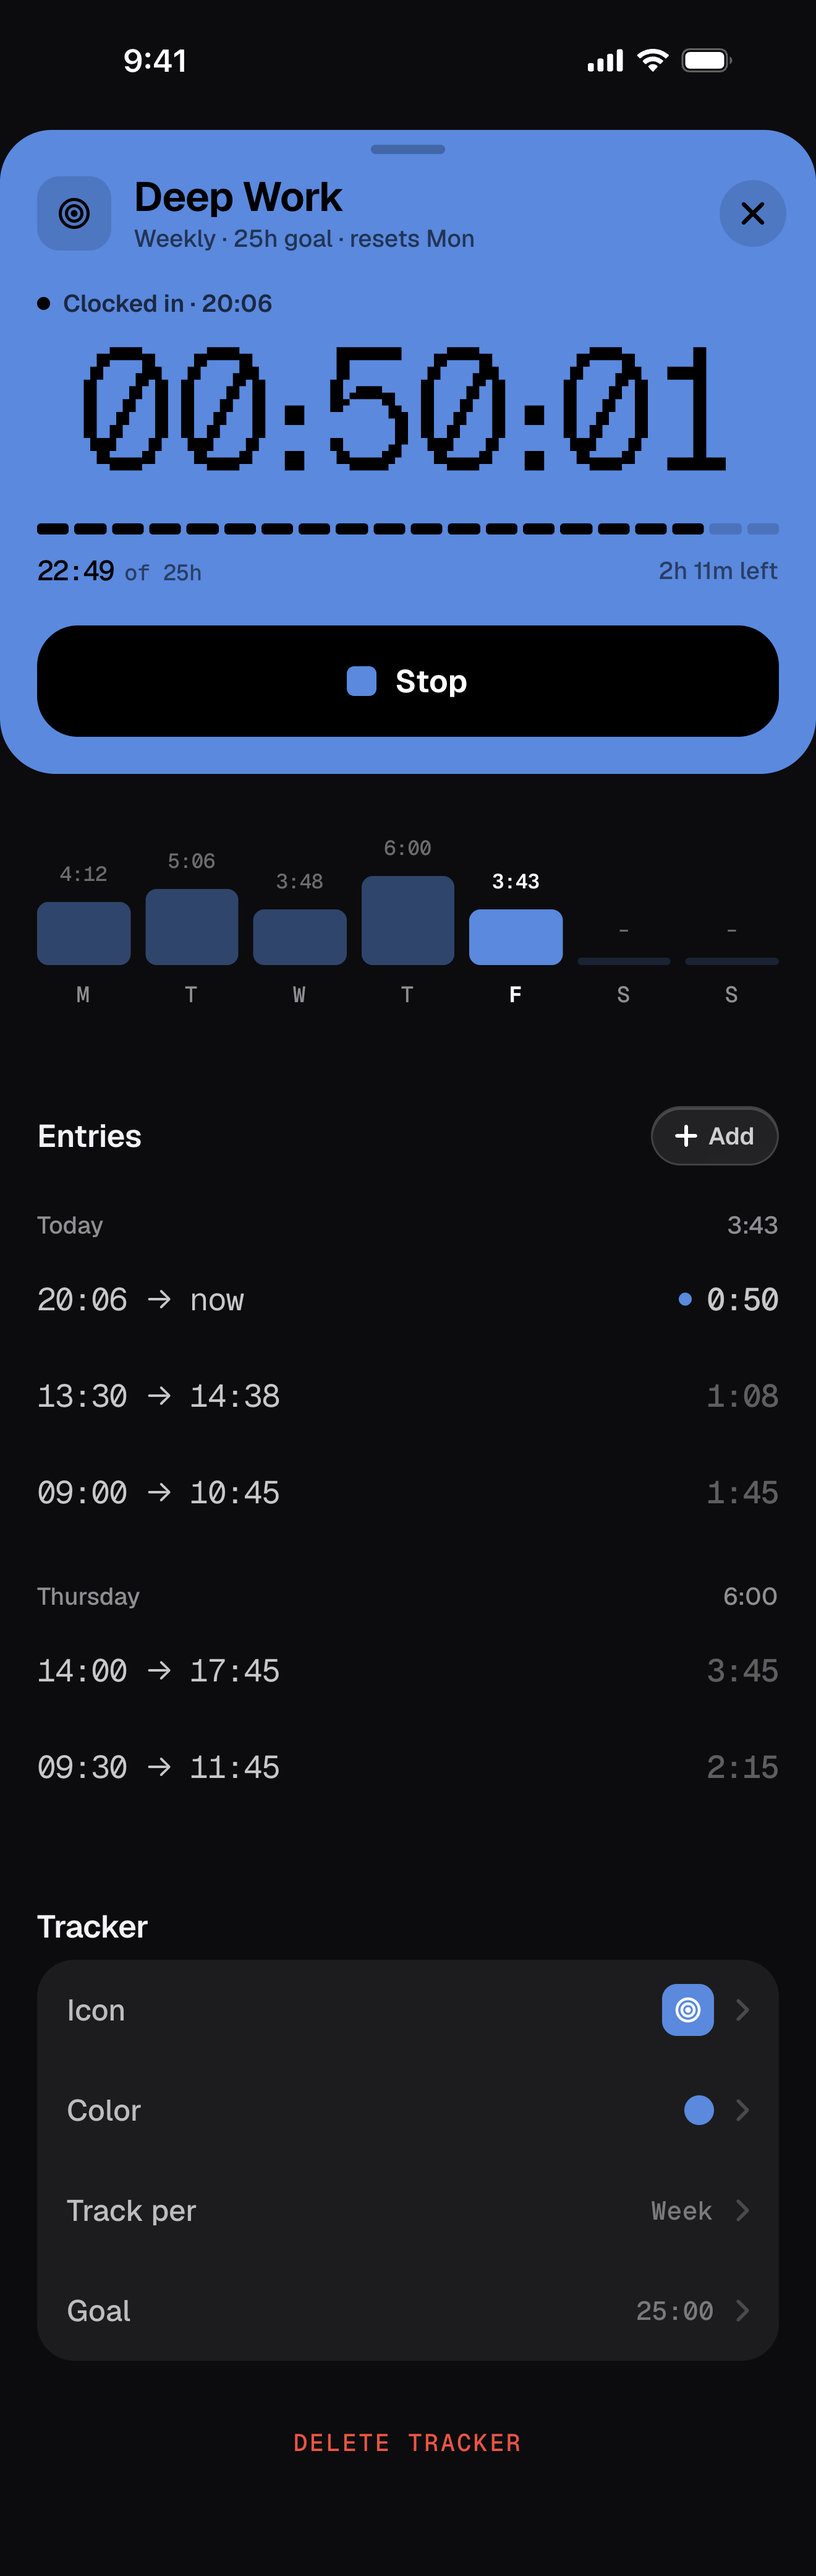
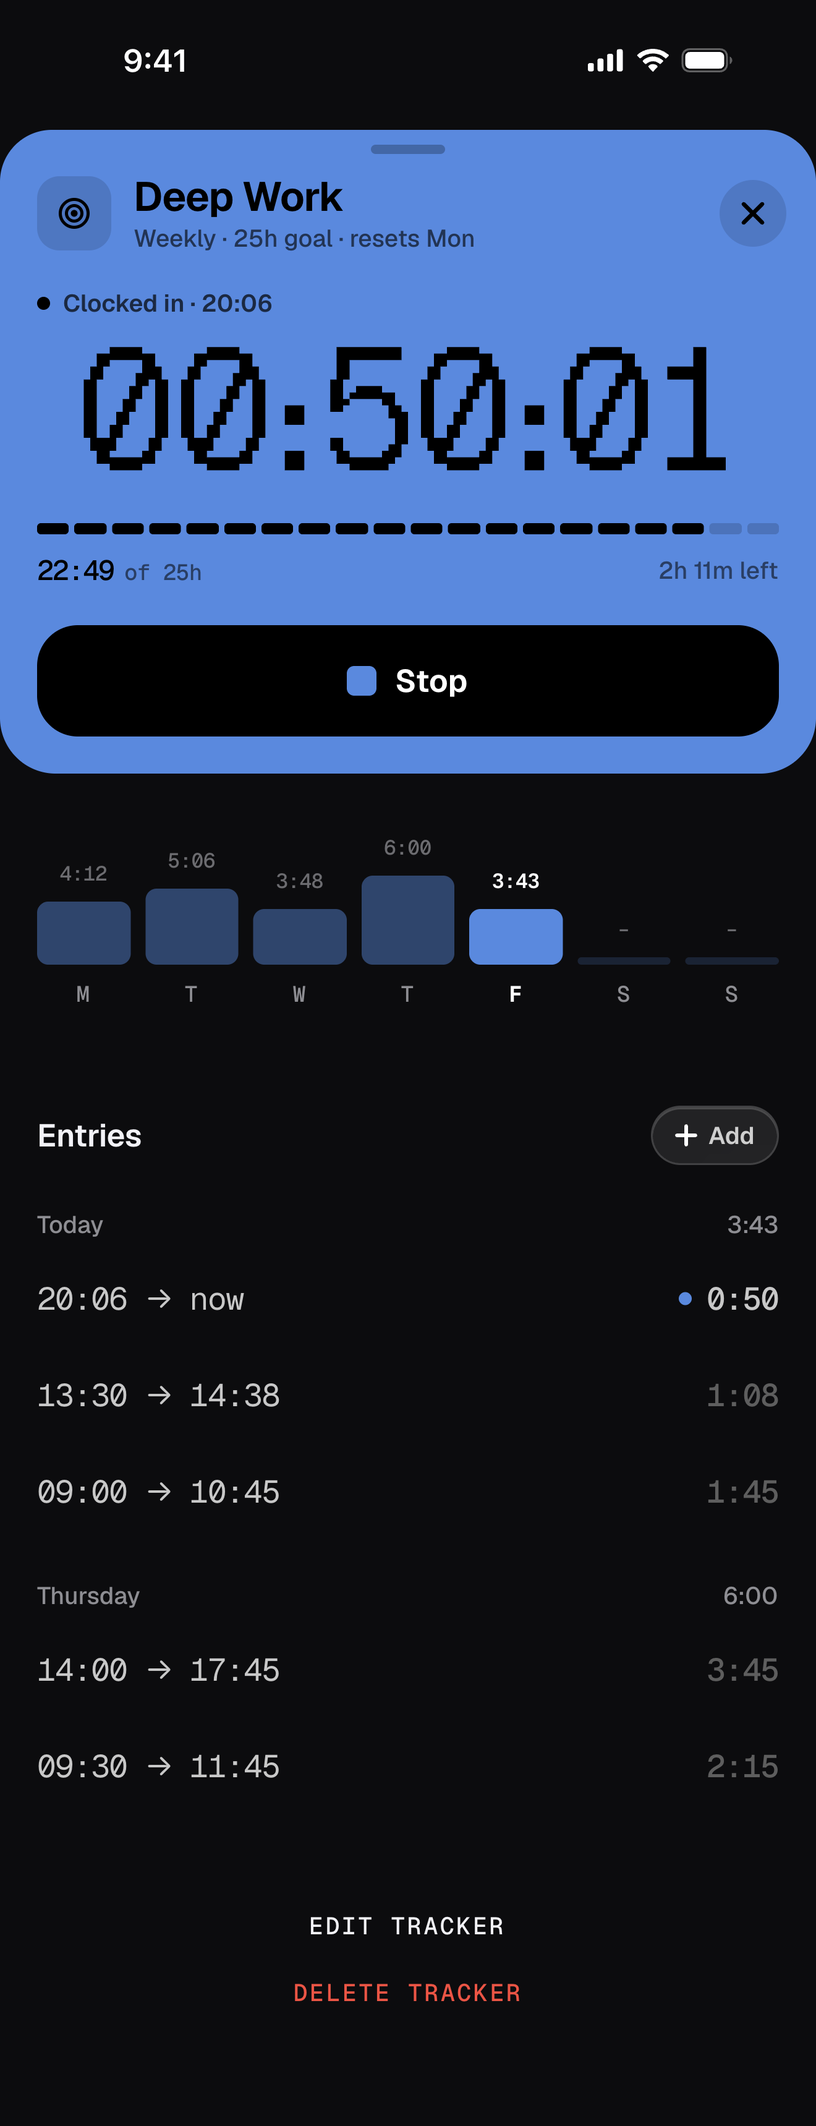
Detail: EDIT TRACKER replaces the Tracker settings list
The detail sheet drops the "Tracker" section (Icon / Color / Track per /
Goal rows). An EDIT TRACKER text button (Geist Mono 13 caps, 0.08em,
#F2F2F7) now sits above DELETE TRACKER, 20pt apart, both with the
shared press style. It opens the 05 sheet in edit mode exactly like the
home "+" (edge-to-edge 706pt surface over a scrim, now inside the
detail via newTrackerOverlay(isPresented:editing:)), with a light
haptic; saving goes through Store.updateActivity, which refreshes
detail, home, widgets and the Live Activity. Tapping the name in the
header no longer opens the editor.

Paper FINAL 02 (AGW-0) updated to match and re-exported to
design/refs/02-tracker-detail@3x.png (fit-content height).

Model: Opus 5.5

diff --git a/Pocus/Screens/TrackerDetailView.swift b/Pocus/Screens/TrackerDetailView.swift
@@ -2,8 +2,8 @@ import SwiftUI
 
 /// 02 Tracker detail sheet (Paper AGW-0). Presented by RootView via `router.detailActivityID`.
 /// Full-accent header (grabber, icon/name, close X, Pixel timer, progress strip, big Stop/Start pill),
-/// then this week's day bars, the entries list (tap to fix times, + Add to log time), the tracker
-/// settings list (opens the editor) and DELETE TRACKER.
+/// then this week's day bars, the entries list (tap to fix times, + Add to log time), then EDIT TRACKER
+/// (opens the 05 sheet in edit mode) over DELETE TRACKER.
 struct TrackerDetailView: View {
     @Environment(Store.self) private var store
     @Environment(AppRouter.self) private var router
@@ -22,7 +22,9 @@ struct TrackerDetailView: View {
                 Ticker { now in content(a, now: now) }
                     .sheet(item: $editingSession) { s in EntryEditSheet(session: s, activity: a) }
                     .sheet(isPresented: $addingEntry) { AddEntrySheet(activity: a) }
-                    .sheet(isPresented: $editingTracker) { NewTrackerView(editing: a) }
+                    // Same edge-to-edge 05 sheet as the home "+", over the detail.
+                    .newTrackerOverlay(isPresented: $editingTracker, editing: a)
+                    .sensoryFeedback(.impact(weight: .light), trigger: editingTracker) { _, open in open }
                     .confirmationDialog("Delete \(a.name)?", isPresented: $confirmingDelete, titleVisibility: .visible) {
                         Button("Delete Tracker", role: .destructive) { delete(a) }
                     } message: {
@@ -42,26 +44,20 @@ struct TrackerDetailView: View {
     private func content(_ a: Activity, now: Date) -> some View {
         ScrollView {
             VStack(spacing: 0) {
-                DetailHeader(activity: a, now: now, close: { dismiss() }, toggle: { toggle(a) },
-                             editName: { editingTracker = true })
+                DetailHeader(activity: a, now: now, close: { dismiss() }, toggle: { toggle(a) })
                 weekBars(a, now: now)
                     .padding(.horizontal, 20)
                     .padding(.top, 32)
                 entries(a, now: now)
                     .padding(.horizontal, 20)
                     .padding(.top, 52)
-                settings(a)
-                    .padding(.horizontal, 20)
-                    .padding(.top, 52)
-                Button { confirmingDelete = true } label: {
-                    Text("DELETE TRACKER")
-                        .geistMono(13, .medium, tracking: 0.08, lineHeight: 16)
-                        .foregroundStyle(Color(hex: "#FF453A"))
-                        .padding(.vertical, 8).padding(.horizontal, 16)
-                        .contentShape(Rectangle())
+                // Paper: 52 below the entries, 20 between the two labels, 64 to the bottom
+                // (each label carries 8pt of tap padding above and below).
+                VStack(spacing: 4) {
+                    textButton("EDIT TRACKER", color: Color(hex: "#F2F2F7")) { editingTracker = true }
+                    textButton("DELETE TRACKER", color: Color(hex: "#FF453A")) { confirmingDelete = true }
                 }
-                .buttonStyle(.pressScale)
-                .padding(.top, 28)
+                .padding(.top, 44)
                 .padding(.bottom, 56)
             }
         }
@@ -72,6 +68,18 @@ struct TrackerDetailView: View {
         .clipShape(UnevenRoundedRectangle(topLeadingRadius: 28, topTrailingRadius: 28, style: .continuous))
         .padding(.top, 8)
         .ignoresSafeArea(edges: .bottom)
+    }
+
+    /// Geist Mono 13 caps text button (EDIT / DELETE TRACKER).
+    private func textButton(_ title: String, color: Color, action: @escaping () -> Void) -> some View {
+        Button(action: action) {
+            Text(title)
+                .geistMono(13, .medium, tracking: 0.08, lineHeight: 16)
+                .foregroundStyle(color)
+                .padding(.vertical, 8).padding(.horizontal, 16)
+                .contentShape(Rectangle())
+        }
+        .buttonStyle(.pressScale)
     }
 
     private func toggle(_ a: Activity) {
@@ -197,51 +205,6 @@ struct TrackerDetailView: View {
         f.dateFormat = "EEEE"
         return f.string(from: day)
     }
-
-    // MARK: Settings
-
-    private func settings(_ a: Activity) -> some View {
-        VStack(alignment: .leading, spacing: 10) {
-            Text("Tracker")
-                .geist(17, .semibold, tracking: -0.01, lineHeight: 16)
-                .foregroundStyle(CH.text)
-            VStack(spacing: 0) {
-                settingsRow("Icon") {
-                    RoundedRectangle(cornerRadius: 8, style: .continuous)
-                        .fill(a.color.accent)
-                        .frame(width: 28, height: 28)
-                        .overlay { GlyphView(a.glyph, size: 16, color: .white, strokeWidth: 2.2) }
-                }
-                settingsRow("Color") {
-                    Circle().fill(a.color.accent).frame(width: 16, height: 16)
-                }
-                settingsRow("Track per") {
-                    Text(a.period.title).geistMono(14, .medium, lineHeight: 18).foregroundStyle(Color(hex: "#7A7A7A"))
-                }
-                settingsRow("Goal") {
-                    Text(Fmt.hm(a.goal)).geistMono(14, .medium, lineHeight: 18).foregroundStyle(Color(hex: "#7A7A7A"))
-                }
-            }
-            .padding(.horizontal, 16)
-            .background(CH.raised, in: RoundedRectangle(cornerRadius: 20, style: .continuous))
-        }
-    }
-
-    private func settingsRow<Trailing: View>(_ title: String, @ViewBuilder trailing: () -> Trailing) -> some View {
-        Button { editingTracker = true } label: {
-            HStack(spacing: 12) {
-                Text(title)
-                    .geist(16, .medium, lineHeight: 20)
-                    .foregroundStyle(Color(hex: "#BDBDBD"))
-                    .frame(maxWidth: .infinity, alignment: .leading)
-                trailing()
-                RowChevron()
-            }
-            .frame(height: 54)
-            .contentShape(Rectangle())
-        }
-        .buttonStyle(.pressScale)
-    }
 }
 
 // MARK: - Header
@@ -253,7 +216,6 @@ private struct DetailHeader: View {
     let now: Date
     var close: () -> Void
     var toggle: () -> Void
-    var editName: () -> Void
 
     var body: some View {
         let a = activity
@@ -268,22 +230,17 @@ private struct DetailHeader: View {
 
             HStack(spacing: 12) {
                 IconTile(glyph: a.glyph, size: 40, radius: 12, glyphSize: 20)
-                Button(action: editName) {
-                    VStack(alignment: .leading, spacing: 1) {
-                        Text(a.name)
-                            .geist(22, .semibold, tracking: -0.02, lineHeight: 26)
-                            .foregroundStyle(CH.onAccent)
-                            .lineLimit(1)
-                        Text("\(a.goalLine) · resets \(Self.resetLabel(a.period))")
-                            .geist(13, .medium, lineHeight: 17)
-                            .foregroundStyle(CH.onAccentSecondary)
-                            .lineLimit(1)
-                    }
-                    .frame(maxWidth: .infinity, minHeight: 44, maxHeight: 44, alignment: .leading)
-                    .contentShape(Rectangle())
+                VStack(alignment: .leading, spacing: 1) {
+                    Text(a.name)
+                        .geist(22, .semibold, tracking: -0.02, lineHeight: 26)
+                        .foregroundStyle(CH.onAccent)
+                        .lineLimit(1)
+                    Text("\(a.goalLine) · resets \(Self.resetLabel(a.period))")
+                        .geist(13, .medium, lineHeight: 17)
+                        .foregroundStyle(CH.onAccentSecondary)
+                        .lineLimit(1)
                 }
-                .buttonStyle(PressScaleStyle(scale: 0.98))
-                .accessibilityHint("Edit tracker")
+                .frame(maxWidth: .infinity, minHeight: 44, maxHeight: 44, alignment: .leading)
                 CircleIconButton(glyph: .close, size: 36, glyphSize: 14,
                                  background: Color.black.opacity(0.12), foreground: .black, action: close)
                     .accessibilityLabel("Close")
@@ -423,17 +380,5 @@ struct GlassPill: View {
             .contentShape(Capsule())
         }
         .buttonStyle(.pressScale)
-    }
-}
-
-/// 7×12 row chevron (#4A4A4A, stroke 1.8).
-struct RowChevron: View {
-    var color = Color(hex: "#4A4A4A")
-    var body: some View {
-        Path { p in
-            p.move(to: CGPoint(x: 1, y: 1)); p.addLine(to: CGPoint(x: 6, y: 6)); p.addLine(to: CGPoint(x: 1, y: 11))
-        }
-        .stroke(color, style: StrokeStyle(lineWidth: 1.8, lineCap: .round, lineJoin: .round))
-        .frame(width: 7, height: 12)
     }
 }

diff --git a/Pocus/Screens/NewTrackerView.swift b/Pocus/Screens/NewTrackerView.swift
@@ -9,7 +9,7 @@ struct NewTrackerView: View {
     @Environment(\.accessibilityReduceMotion) private var reduceMotion
 
     private let editing: Activity?
-    /// Set when shown by `.newTrackerOverlay` (home "+"); nil when presented as a system sheet (editor).
+    /// Set when shown by `.newTrackerOverlay` (home "+", detail EDIT TRACKER); nil as a system sheet.
     private let onClose: (() -> Void)?
     @State private var dragOffset: CGFloat = 0
 
@@ -367,13 +367,15 @@ struct NewTrackerView: View {
 extension View {
     /// Presents `NewTrackerView` over everything as the design's edge-to-edge sheet: the screen behind
     /// fades to 35% (scrim = #0C0C0E @ 65%) and the 706pt surface slides up from the bottom.
-    func newTrackerOverlay(isPresented: Binding<Bool>) -> some View {
-        modifier(NewTrackerOverlay(isPresented: isPresented))
+    /// Pass `editing` to open it as the editor for that tracker (from the detail sheet).
+    func newTrackerOverlay(isPresented: Binding<Bool>, editing: Activity? = nil) -> some View {
+        modifier(NewTrackerOverlay(isPresented: isPresented, editing: editing))
     }
 }
 
 private struct NewTrackerOverlay: ViewModifier {
     @Binding var isPresented: Bool
+    var editing: Activity?
     @Environment(\.accessibilityReduceMotion) private var reduceMotion
 
     func body(content: Content) -> some View {
@@ -386,7 +388,7 @@ private struct NewTrackerOverlay: ViewModifier {
                             .onTapGesture { isPresented = false }
                             .accessibilityHidden(true)
                             .transition(.opacity)
-                        NewTrackerView(onClose: { isPresented = false })
+                        NewTrackerView(editing: editing, onClose: { isPresented = false })
                             .accessibilityAddTraits(.isModal)
                             .transition(reduceMotion ? .opacity : .move(edge: .bottom))
                             .zIndex(1)
